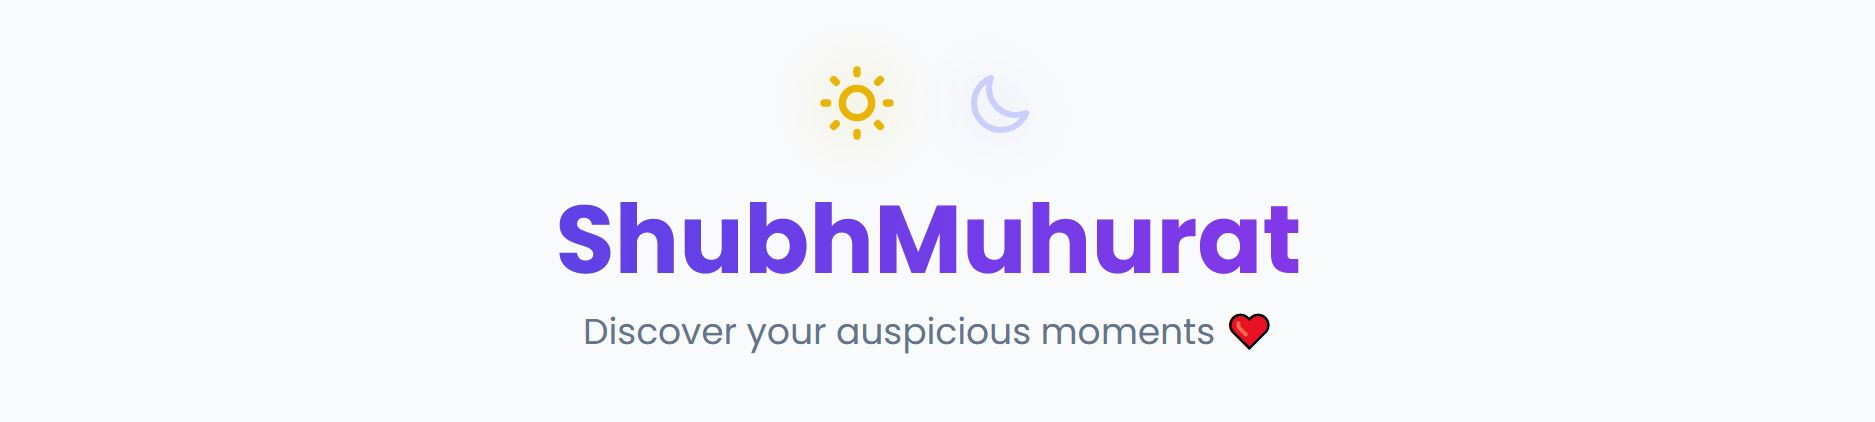
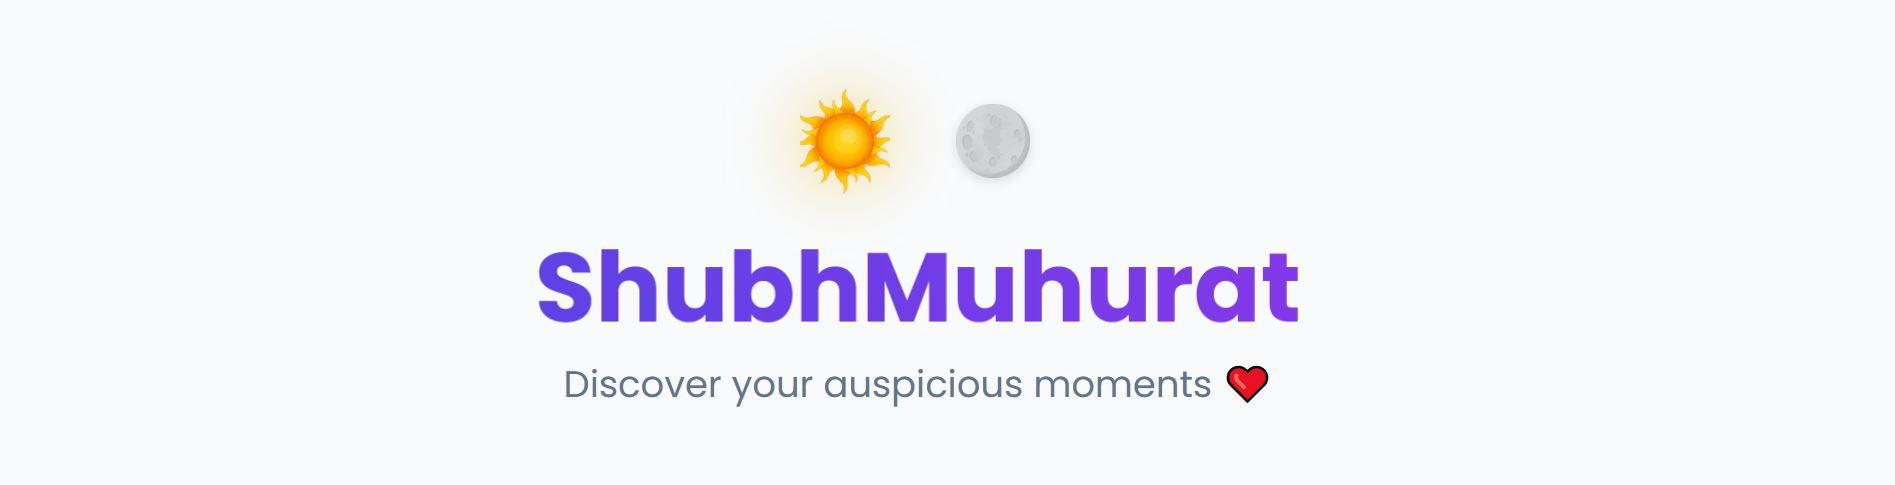
v1.2
Added :
- sun.png

Changed :
- Readme image
- Sun button
- Color for Choghadiya map
- Color for all Choghadiya

Changed region(s): [[0.2784, 0.4621, 0.7115, 0.6777], [0.4021, 0.154, 0.5568, 0.4005], [0.2784, 0.7393, 0.6805, 0.8318]]

diff --git a/index.html b/index.html
@@ -132,9 +132,10 @@
         <header class="text-center mt-6 mb-10">
             <div class="flex justify-center items-center space-x-8 mb-6">
                 <button id="btn-sun" class="transform transition-all duration-500 hover:scale-110">
-                    <svg xmlns="http://www.w3.org/2000/svg" class="h-10 w-10 text-yellow-500" fill="none" viewBox="0 0 24 24" stroke="currentColor">
+					<img src="assets/sun.png" alt="Sun" class="h-12 w-10 object-cover""/>
+                    <!-- <svg xmlns="http://www.w3.org/2000/svg" class="h-10 w-10 text-yellow-500" fill="none" viewBox="0 0 24 24" stroke="currentColor">
                         <path stroke-linecap="round" stroke-linejoin="round" stroke-width="2" d="M12 3v1m0 16v1m9-9h-1M4 12H3m15.364 6.364l-.707-.707M6.343 6.343l-.707-.707m12.728 0l-.707.707M6.343 17.657l-.707.707M16 12a4 4 0 11-8 0 4 4 0 018 0z" />
-                    </svg>
+                    </svg> -->
                 </button>
 				<button id="btn-moon" class="transform transition-all duration-500 hover:scale-110" style="box-shadow: 0 2px 5px rgba(0, 0, 0, 0.3); border-radius: 50%;">
 					<img src="assets/moon.png" alt="Full Moon" class="h-10 w-10 object-cover" />
@@ -228,10 +229,24 @@
             </div>
 
             <div class="flex flex-wrap justify-center gap-4 text-sm text-slate-500 dark:text-slate-400 py-4">
-                <div class="flex items-center"><span class="w-3 h-3 rounded-full bg-green-500 mr-2"></span> Highly Auspicious</div>
-                <div class="flex items-center"><span class="w-3 h-3 rounded-full bg-yellow-400 mr-2"></span> Auspicious</div>
-                <div class="flex items-center"><span class="w-3 h-3 rounded-full bg-sky-400 mr-2"></span> Good</div>
-                <div class="flex items-center"><span class="w-3 h-3 rounded-full bg-slate-200 dark:bg-slate-700 mr-2"></span> Inauspicious</div>
+				<div class="flex items-center">
+					<span class="w-3 h-3 rounded-full bg-purple-400 mr-2"></span> Highly Auspicious
+				</div>
+				<div class="flex items-center">
+					<span class="w-3 h-3 rounded-full bg-green-300 mr-2"></span> Auspicious
+				</div>
+				<div class="flex items-center">
+					<span class="w-3 h-3 rounded-full bg-sky-300 mr-2"></span> Good
+				</div>
+				<div class="flex items-center">
+					<span class="w-3 h-3 rounded-full bg-gray-200 mr-2"></span> Neutral
+				</div>
+				<div class="flex items-center">
+					<span class="w-3 h-3 rounded-full bg-red-200 mr-2"></span> Inauspicious
+				</div>
+				<div class="flex items-center">
+					<span class="w-3 h-3 rounded-full bg-red-500 mr-2"></span> Highly Inauspicious
+				</div>
             </div>
         </div>
 
@@ -285,25 +300,43 @@
             return `${y}-${m}-${d}`;
         };
 
-        const getChoghadiyaStyle = (name, activity) => {
-            const baseStyle = 'p-3 text-center rounded-xl font-semibold transition-all duration-300 shadow-sm flex items-center justify-center text-sm';
-            const textDark = 'text-slate-900';
-            const textLight = 'text-white';
-            const neutralDark = 'dark:bg-slate-700 dark:text-slate-300'; // For Gray slots in dark mode
+const getChoghadiyaStyle = (name, activity) => {
+    const baseStyle = 'p-3 text-center rounded-xl font-semibold transition-all duration-300 flex items-center justify-center text-sm shadow-sm';
+	const textLight = 'text-white shadow-md shadow-gray-100/20'; // Smoother shadow with opacity
+	const textDark = 'text-slate-900 shadow-md shadow-gray-900/10'; // Added opacity for contrast
+	const neutralDark = 'dark:bg-slate-700 dark:text-slate-100'; // For Gray slots in dark mode
 
-            const map = {
-                Amrit: { 'General Time': `bg-green-400 ${textLight}`, 'Work Related': `bg-green-500 ${textLight}`, 'Money Related': `bg-green-500 ${textLight}` },
-                Shubh: { 'General Time': `bg-yellow-400 ${textDark}`, 'Work Related': `bg-green-500 ${textLight}`, 'Money Related': `bg-sky-400 ${textLight}` },
-                Labh: { 'General Time': `bg-yellow-400 ${textDark}`, 'Work Related': `bg-sky-400 ${textLight}`, 'Money Related': `bg-green-500 ${textLight}` },
-                Chal: { 'General Time': `bg-sky-400 ${textLight}`, 'Work Related': `bg-sky-400 ${textLight}`, 'Money Related': `bg-sky-400 ${textLight}` },
-                Udveg: { 'default': `bg-slate-200 ${textDark} ${neutralDark}` },
-                Rog: { 'default': `bg-slate-200 ${textDark} ${neutralDark}` },
-                Kaal: { 'default': `bg-slate-200 ${textDark} ${neutralDark}` }
-            };
+	const map = {
+		Amrit: { 
+			'General Time': `bg-purple-500 dark:bg-purple-700/80 ${textLight}`, 
+			'Work Related': `bg-purple-500 dark:bg-purple-700/80 ${textLight}`, 
+			'Money Related': `bg-purple-500 dark:bg-purple-700/80 ${textLight}` 
+		},
+		Shubh: { 
+			'General Time': `bg-blue-400 dark:bg-blue-400/80 ${textLight}`,
+			'Work Related': `bg-green-400 dark:bg-green-500/80 ${textLight}`, 
+			'Money Related': `bg-blue-400 dark:bg-blue-400/80 ${textLight}`
+		},
+		Labh: { 
+			'General Time': `bg-blue-400 dark:bg-blue-400/80 ${textLight}`, 
+			'Work Related': `bg-blue-400 dark:bg-blue-400/80 ${textLight}`, 
+			'Money Related': `bg-green-400 dark:bg-green-500/80 ${textLight}` 
+		},
+		Chal: { 
+			'General Time': `bg-gray-400 dark:bg-gray-400/70 ${textLight}`,
+			'Work Related': `bg-gray-400 dark:bg-gray-400/70 ${textLight}`, 
+			'Money Related': `bg-gray-500 dark:bg-gray-400/70 ${textLight}` 
+		},
+		Udveg: { 'default': `bg-red-400 dark:bg-red-400/80 ${textLight}` },
+		Rog: { 'default': `bg-red-400 dark:bg-red-400/80 ${textLight}` },
+		Kaal: { 'default': `bg-red-500 dark:bg-red-600/80 ${textLight}` }
+	};
 
-            const config = map[name];
-            return `${baseStyle} ${config[activity] || config['default']}`;
-        };
+    const config = map[name];
+    return `${baseStyle} ${config[activity] || config['default']}`;
+};
+
+
 
         // --- Logic ---
         async function calculate() {
